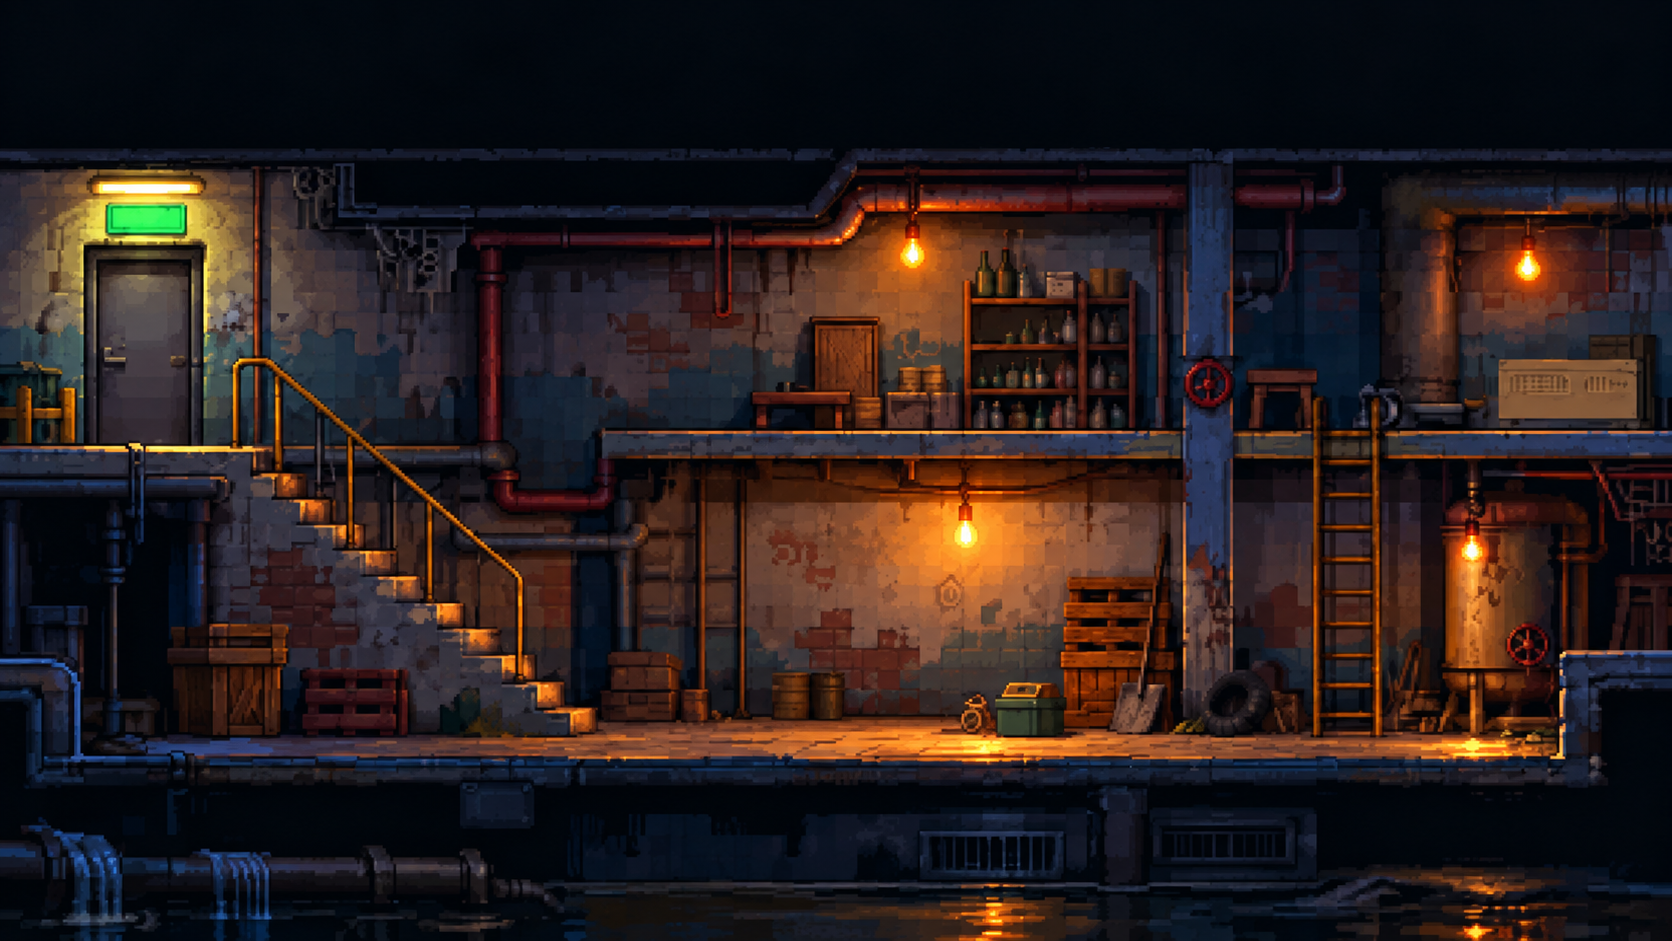
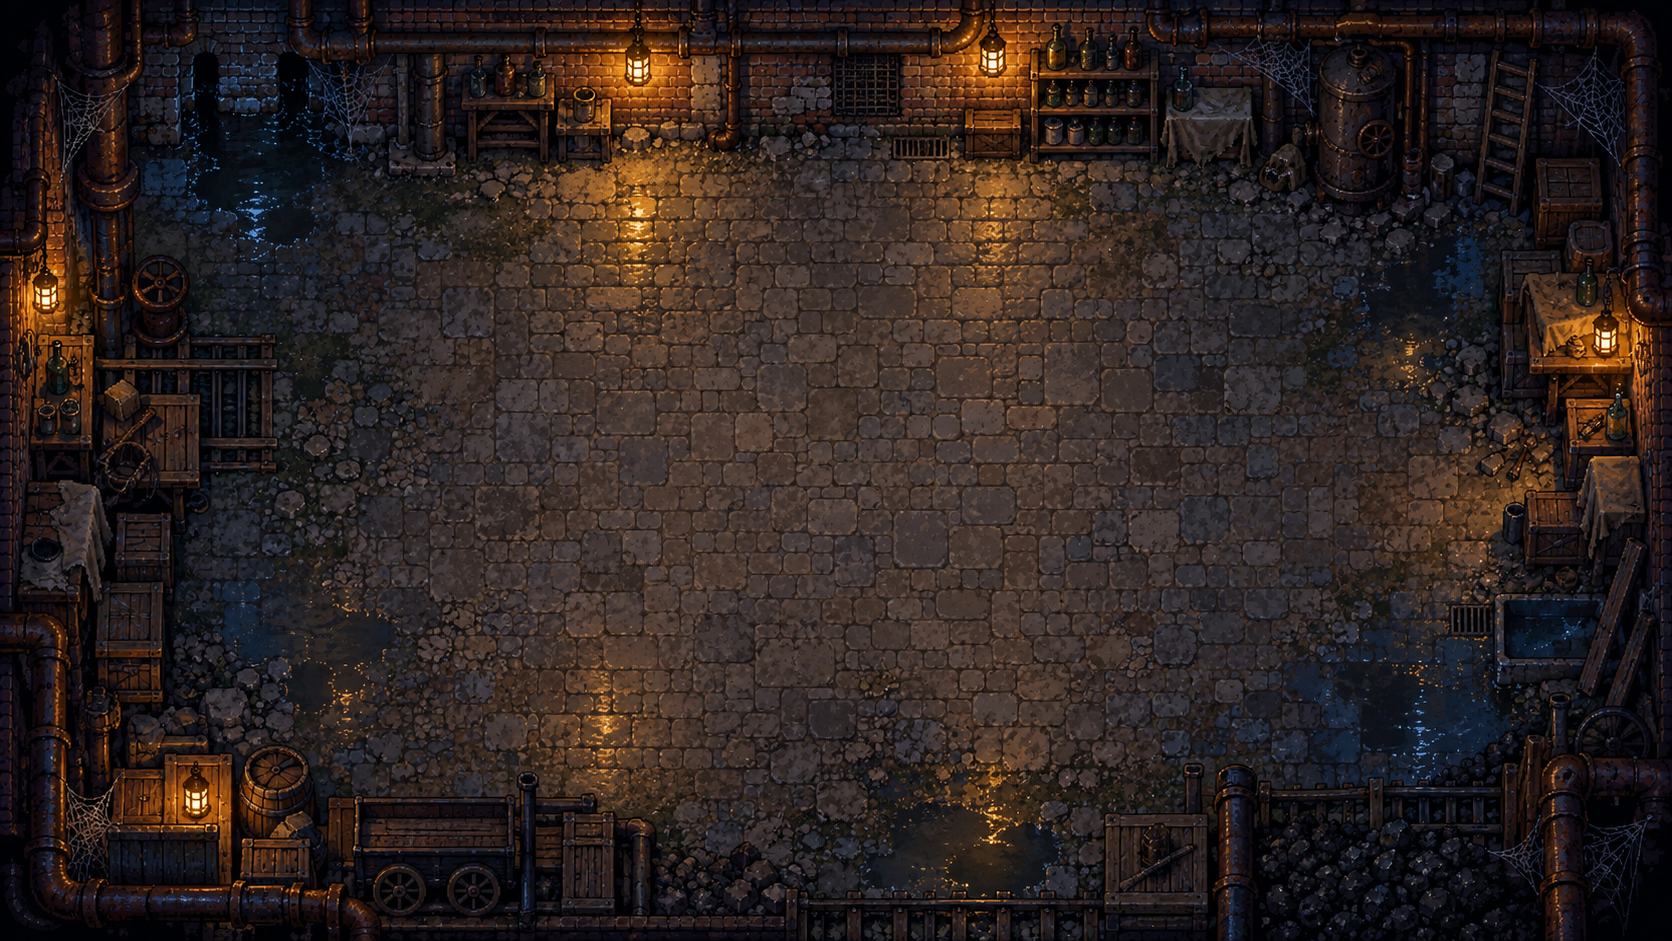
Use supplied top-down cellar art and align interactions

diff --git a/src/main/java/alkosmen/Game.java b/src/main/java/alkosmen/Game.java
@@ -128,9 +128,13 @@ public final class Game extends Canvas implements Runnable {
    private long ufoStartedAt;
    private boolean secretArea;
    private volatile boolean questMapOpen;
-   private double secretX = (double)2.0F;
+   private double secretX = 3.5;
    private double secretY = (double)5.0F;
    private static final String CELLAR_QUEST_ID = "secret_cellar";
+   private static final int CELLAR_CHEST_X = 6;
+   private static final int CELLAR_CHEST_Y = 3;
+   private static final int CELLAR_BRICK_X = 5;
+   private static final int CELLAR_BRICK_Y = 4;
    private static final double MOVE_SPEED = 0.12;
    private static final double TOP_DOWN_SPEED = 0.115;
    private static final double PATROL_COLLISION_MARGIN = 0.06;
@@ -457,7 +461,7 @@ public final class Game extends Canvas implements Runnable {
                      this.showLine(this.dbText("npc.far"), now);
                   } else {
                      this.secretArea = true;
-                     this.secretX = (double)2.0F;
+                     this.secretX = 3.5;
                      this.secretY = (double)5.0F;
                      this.showLine(this.dbText("quest.secret.enter"), now);
                   }
@@ -1117,7 +1121,7 @@ public final class Game extends Canvas implements Runnable {
       } else if (chest.contains(screenX, screenY)) {
          if (this.cellarQuest.stage() > 0) {
             this.showLine(this.dbText("quest.secret.inspect"), now);
-         } else if (Math.abs(this.secretX - 7.0) > 1.8) {
+         } else if (Math.hypot(this.secretX - 7.0, this.secretY - 3.5) > 2.0) {
             this.showLine(this.dbText("quest.secret.too_far"), now);
          } else {
             this.advanceCellarQuest(new LocalGameStore.StoryState(true, false, 1), "quest.secret.inspect", now);
@@ -1125,7 +1129,7 @@ public final class Game extends Canvas implements Runnable {
       } else if (brick.contains(screenX, screenY)) {
          if (this.cellarQuest.stage() == 0) {
             this.showLine(this.dbText("quest.secret.first"), now);
-         } else if (Math.abs(this.secretX - 5.5) > 1.6) {
+         } else if (Math.hypot(this.secretX - 5.5, this.secretY - 4.5) > 1.8) {
             this.showLine(this.dbText("quest.secret.too_far"), now);
          } else if (this.cellarQuest.completed()) {
             this.showLine(this.dbText("quest.secret.note"), now);
@@ -1152,29 +1156,36 @@ public final class Game extends Canvas implements Runnable {
    }
 
    private Rectangle cellarExitBounds() {
-      return new Rectangle((int)(this.getWidth() * 0.28), (int)((this.getHeight() - 56) * 0.72),
-         (int)(this.getWidth() * 0.11), (int)((this.getHeight() - 56) * 0.15));
+      int tile = this.cellarTileSize();
+      return new Rectangle((this.getWidth() - 10 * tile) / 2 + tile,
+         (this.getHeight() - 56 - 8 * tile) / 2 + 5 * tile, tile, tile);
    }
 
    private Rectangle cellarChestBounds() {
-      return new Rectangle((int)(this.getWidth() * 0.57), (int)((this.getHeight() - 56) * 0.70),
-         (int)(this.getWidth() * 0.12), (int)((this.getHeight() - 56) * 0.16));
+      int tile = this.cellarTileSize();
+      return new Rectangle((this.getWidth() - 10 * tile) / 2 + CELLAR_CHEST_X * tile,
+         (this.getHeight() - 56 - 8 * tile) / 2 + CELLAR_CHEST_Y * tile, 2 * tile, tile);
    }
 
    private Rectangle cellarBrickBounds() {
-      return new Rectangle((int)(this.getWidth() * 0.51), (int)((this.getHeight() - 56) * 0.75),
-         (int)(this.getWidth() * 0.06), (int)((this.getHeight() - 56) * 0.10));
+      int tile = this.cellarTileSize();
+      return new Rectangle((this.getWidth() - 10 * tile) / 2 + CELLAR_BRICK_X * tile,
+         (this.getHeight() - 56 - 8 * tile) / 2 + CELLAR_BRICK_Y * tile, tile, tile);
+   }
+
+   private int cellarTileSize() {
+      return Math.min(64, Math.max(32, (this.getHeight() - 56 - 70) / 8));
    }
 
    private void updateSecretArea() {
       if (this.interactionRequested) {
          this.interactionRequested = false;
          long now = System.currentTimeMillis();
-         Rectangle target = this.cellarQuest.stage() == 0 && Math.abs(this.secretX - 7.0) <= 1.8
+         Rectangle target = this.cellarQuest.stage() == 0 && Math.hypot(this.secretX - 7.0, this.secretY - 3.5) <= 2.0
             ? this.cellarChestBounds()
-            : this.cellarQuest.stage() == 1 && Math.abs(this.secretX - 5.5) <= 1.6
+            : this.cellarQuest.stage() == 1 && Math.hypot(this.secretX - 5.5, this.secretY - 4.5) <= 1.8
                ? this.cellarBrickBounds()
-               : this.secretX <= 3.3 ? this.cellarExitBounds() : null;
+               : Math.hypot(this.secretX - 1.5, this.secretY - 5.5) <= 1.8 ? this.cellarExitBounds() : null;
          if (target != null) {
             this.handleCellarClick(target.x + target.width / 2, target.y + target.height / 2, now);
             if (!this.secretArea) {
@@ -1189,7 +1200,7 @@ public final class Game extends Canvas implements Runnable {
       } else {
          double length = Math.hypot(dx, dy);
          this.secretX = Math.max((double)1.0F, Math.min((double)8.0F, this.secretX + dx / length * 0.115));
-         this.secretY = Math.max(4.8, Math.min(6.0, this.secretY + dy / length * 0.115));
+         this.secretY = Math.max(1.0, Math.min(6.0, this.secretY + dy / length * 0.115));
          this.playerDir = Math.abs(dy) > Math.abs(dx) ? (dy < (double)0.0F ? 3 : 4) : (dx < (double)0.0F ? 0 : 1);
       }
 
@@ -1230,21 +1241,33 @@ public final class Game extends Canvas implements Runnable {
       g2.drawString("WASD / стрелки — идти     ЛКМ / E — осмотреть или выйти", bannerX + 16, bannerY + 68);
 
       Rectangle exit = this.cellarExitBounds();
+      g2.setColor(new Color(20, 16, 11, 190));
+      g2.fillRoundRect(exit.x + 9, exit.y + 12, exit.width - 18, exit.height - 20, 6, 6);
+      g2.setColor(new Color(232, 167, 84));
+      g2.drawRoundRect(exit.x + 9, exit.y + 12, exit.width - 19, exit.height - 21, 6, 6);
       g2.setColor(new Color(12, 18, 25, 205));
-      g2.fillRoundRect(exit.x + 12, exit.y + 5, exit.width - 24, 25, 6, 6);
+      g2.fillRoundRect(exit.x + 5, exit.y + 16, exit.width - 10, 24, 6, 6);
       g2.setColor(new Color(255, 216, 130));
       g2.setFont(new Font("Dialog", 1, 12));
-      g2.drawString("ВЫХОД", exit.x + (exit.width - g2.getFontMetrics().stringWidth("ВЫХОД")) / 2, exit.y + 23);
+      g2.drawString("ВЫХОД", exit.x + (exit.width - g2.getFontMetrics().stringWidth("ВЫХОД")) / 2, exit.y + 33);
 
       Rectangle chest = this.cellarChestBounds();
-      g2.setColor(new Color(12, 18, 25, 215));
-      g2.fillRoundRect(chest.x + 12, chest.y + 4, chest.width - 24, 25, 6, 6);
+      g2.setColor(new Color(21, 12, 8, 205));
+      g2.fillRoundRect(chest.x + 3, chest.y + 20, chest.width - 6, chest.height - 20, 7, 7);
+      g2.setColor(this.cellarQuest.stage() == 0 ? new Color(112, 59, 28) : new Color(66, 49, 38));
+      g2.fillRoundRect(chest.x + 8, chest.y + 23, chest.width - 16, chest.height - 27, 5, 5);
       g2.setColor(this.cellarQuest.stage() == 0 ? new Color(238, 184, 80) : new Color(143, 120, 84));
-      g2.drawRoundRect(chest.x + 5, chest.y + 31, chest.width - 10, chest.height - 38, 7, 7);
+      g2.drawRoundRect(chest.x + 8, chest.y + 23, chest.width - 17, chest.height - 28, 5, 5);
+      g2.drawLine(chest.x + 12, chest.y + 39, chest.x + chest.width - 12, chest.y + 39);
+      g2.drawLine(chest.x + 25, chest.y + 25, chest.x + 25, chest.y + chest.height - 8);
+      g2.drawLine(chest.x + chest.width - 25, chest.y + 25, chest.x + chest.width - 25, chest.y + chest.height - 8);
+      g2.fillRect(chest.x + chest.width / 2 - 4, chest.y + 38, 8, 8);
+      g2.setColor(new Color(12, 18, 25, 220));
+      g2.fillRoundRect(chest.x + 10, chest.y - 6, chest.width - 20, 23, 6, 6);
       g2.setColor(new Color(255, 221, 166));
       g2.setFont(new Font("Dialog", 1, 12));
       String chestName = this.cellarQuest.stage() == 0 ? "ЯЩИК [ЛКМ]" : "ПУСТОЙ «ТИЧ»";
-      g2.drawString(chestName, chest.x + (chest.width - g2.getFontMetrics().stringWidth(chestName)) / 2, chest.y + 22);
+      g2.drawString(chestName, chest.x + (chest.width - g2.getFontMetrics().stringWidth(chestName)) / 2, chest.y + 10);
 
       if (this.cellarQuest.stage() > 0) {
          Rectangle brick = this.cellarBrickBounds();
@@ -1259,11 +1282,12 @@ public final class Game extends Canvas implements Runnable {
       if (this.playerSprites != null) {
          Image[] track = this.playerSprites[this.playerDir];
          Image frame = track[Math.floorMod(this.animFrame, track.length)];
-         int size = (int)Math.round((this.getHeight() - 56) * 0.16);
-         int footX = (int)Math.round(this.getWidth() * (0.31 + (this.secretX - 1.5) * 0.06));
-         int footY = (int)Math.round((this.getHeight() - 56) * 0.83 + (this.secretY - 5.3) * 16);
-         int px = footX - size / 2;
-         int py = footY - size;
+         int tile = this.cellarTileSize();
+         int originX = (this.getWidth() - 10 * tile) / 2;
+         int originY = (this.getHeight() - 56 - 8 * tile) / 2;
+         int size = (int)Math.round(tile * 1.7);
+         int px = originX + (int)(this.secretX * tile) - (size - tile) / 2;
+         int py = originY + (int)(this.secretY * tile) - (size - tile);
          g2.drawImage(frame, px, py, size, size, (ImageObserver)null);
       }
 
